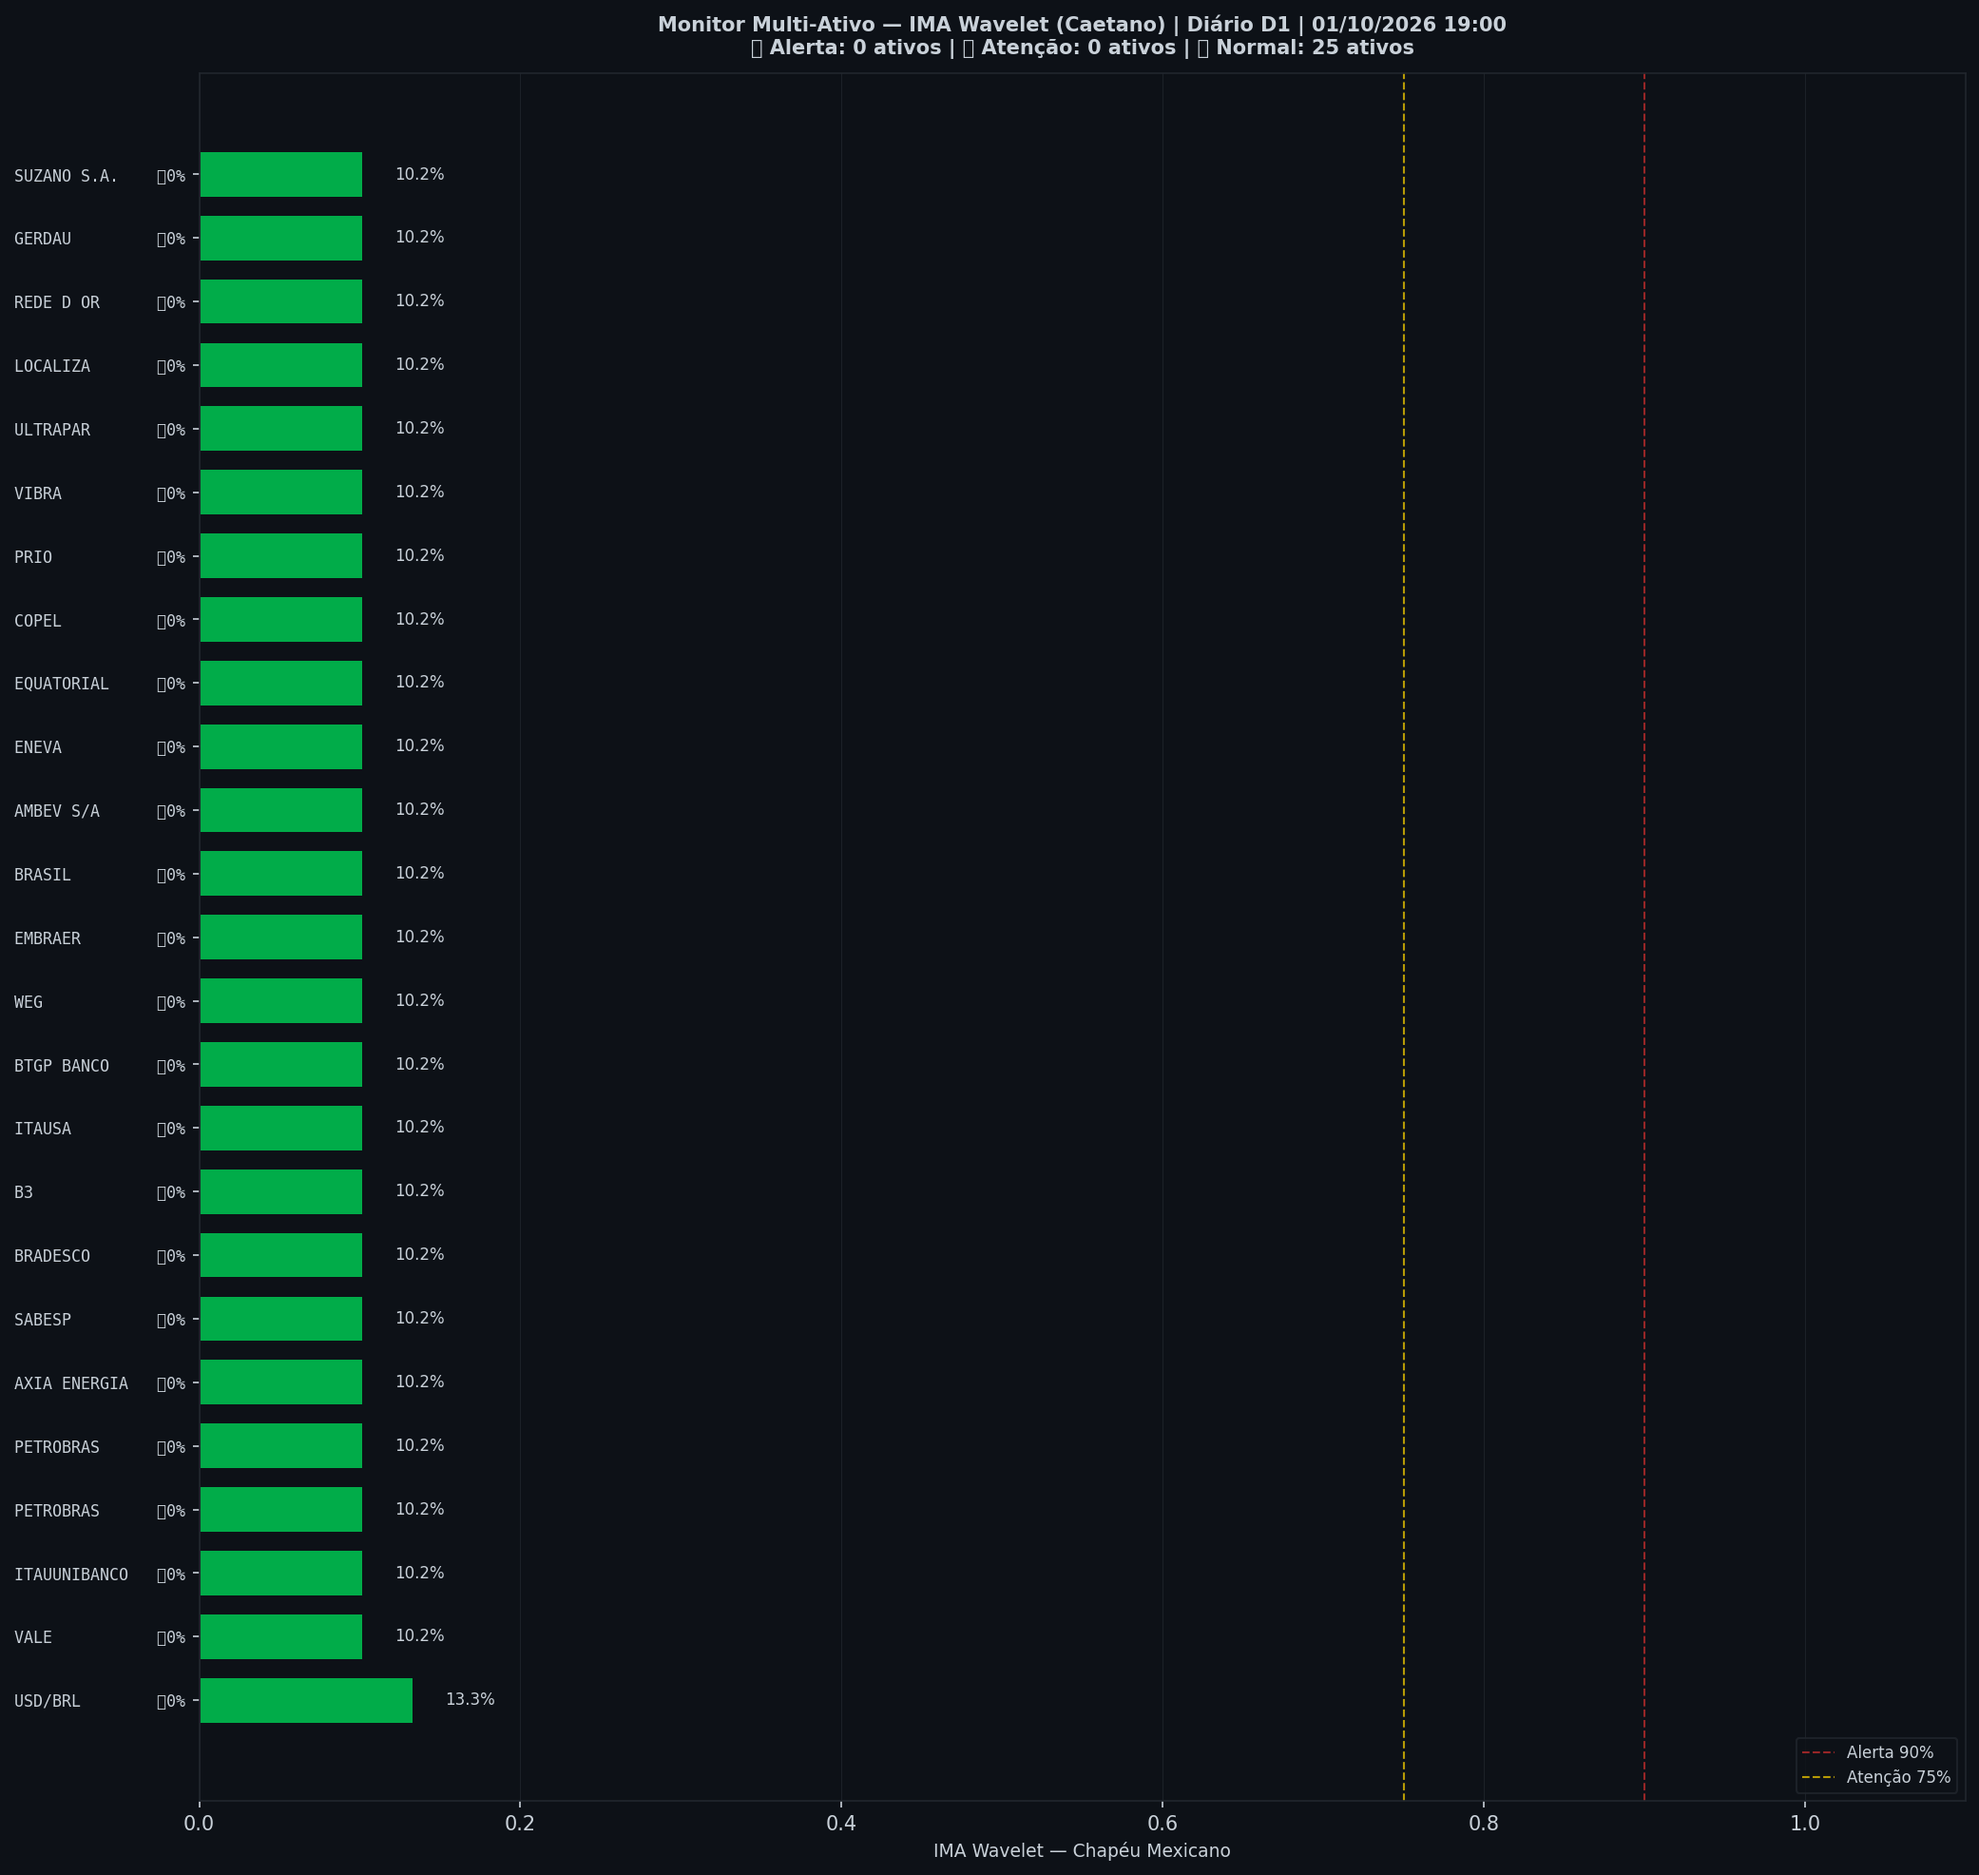
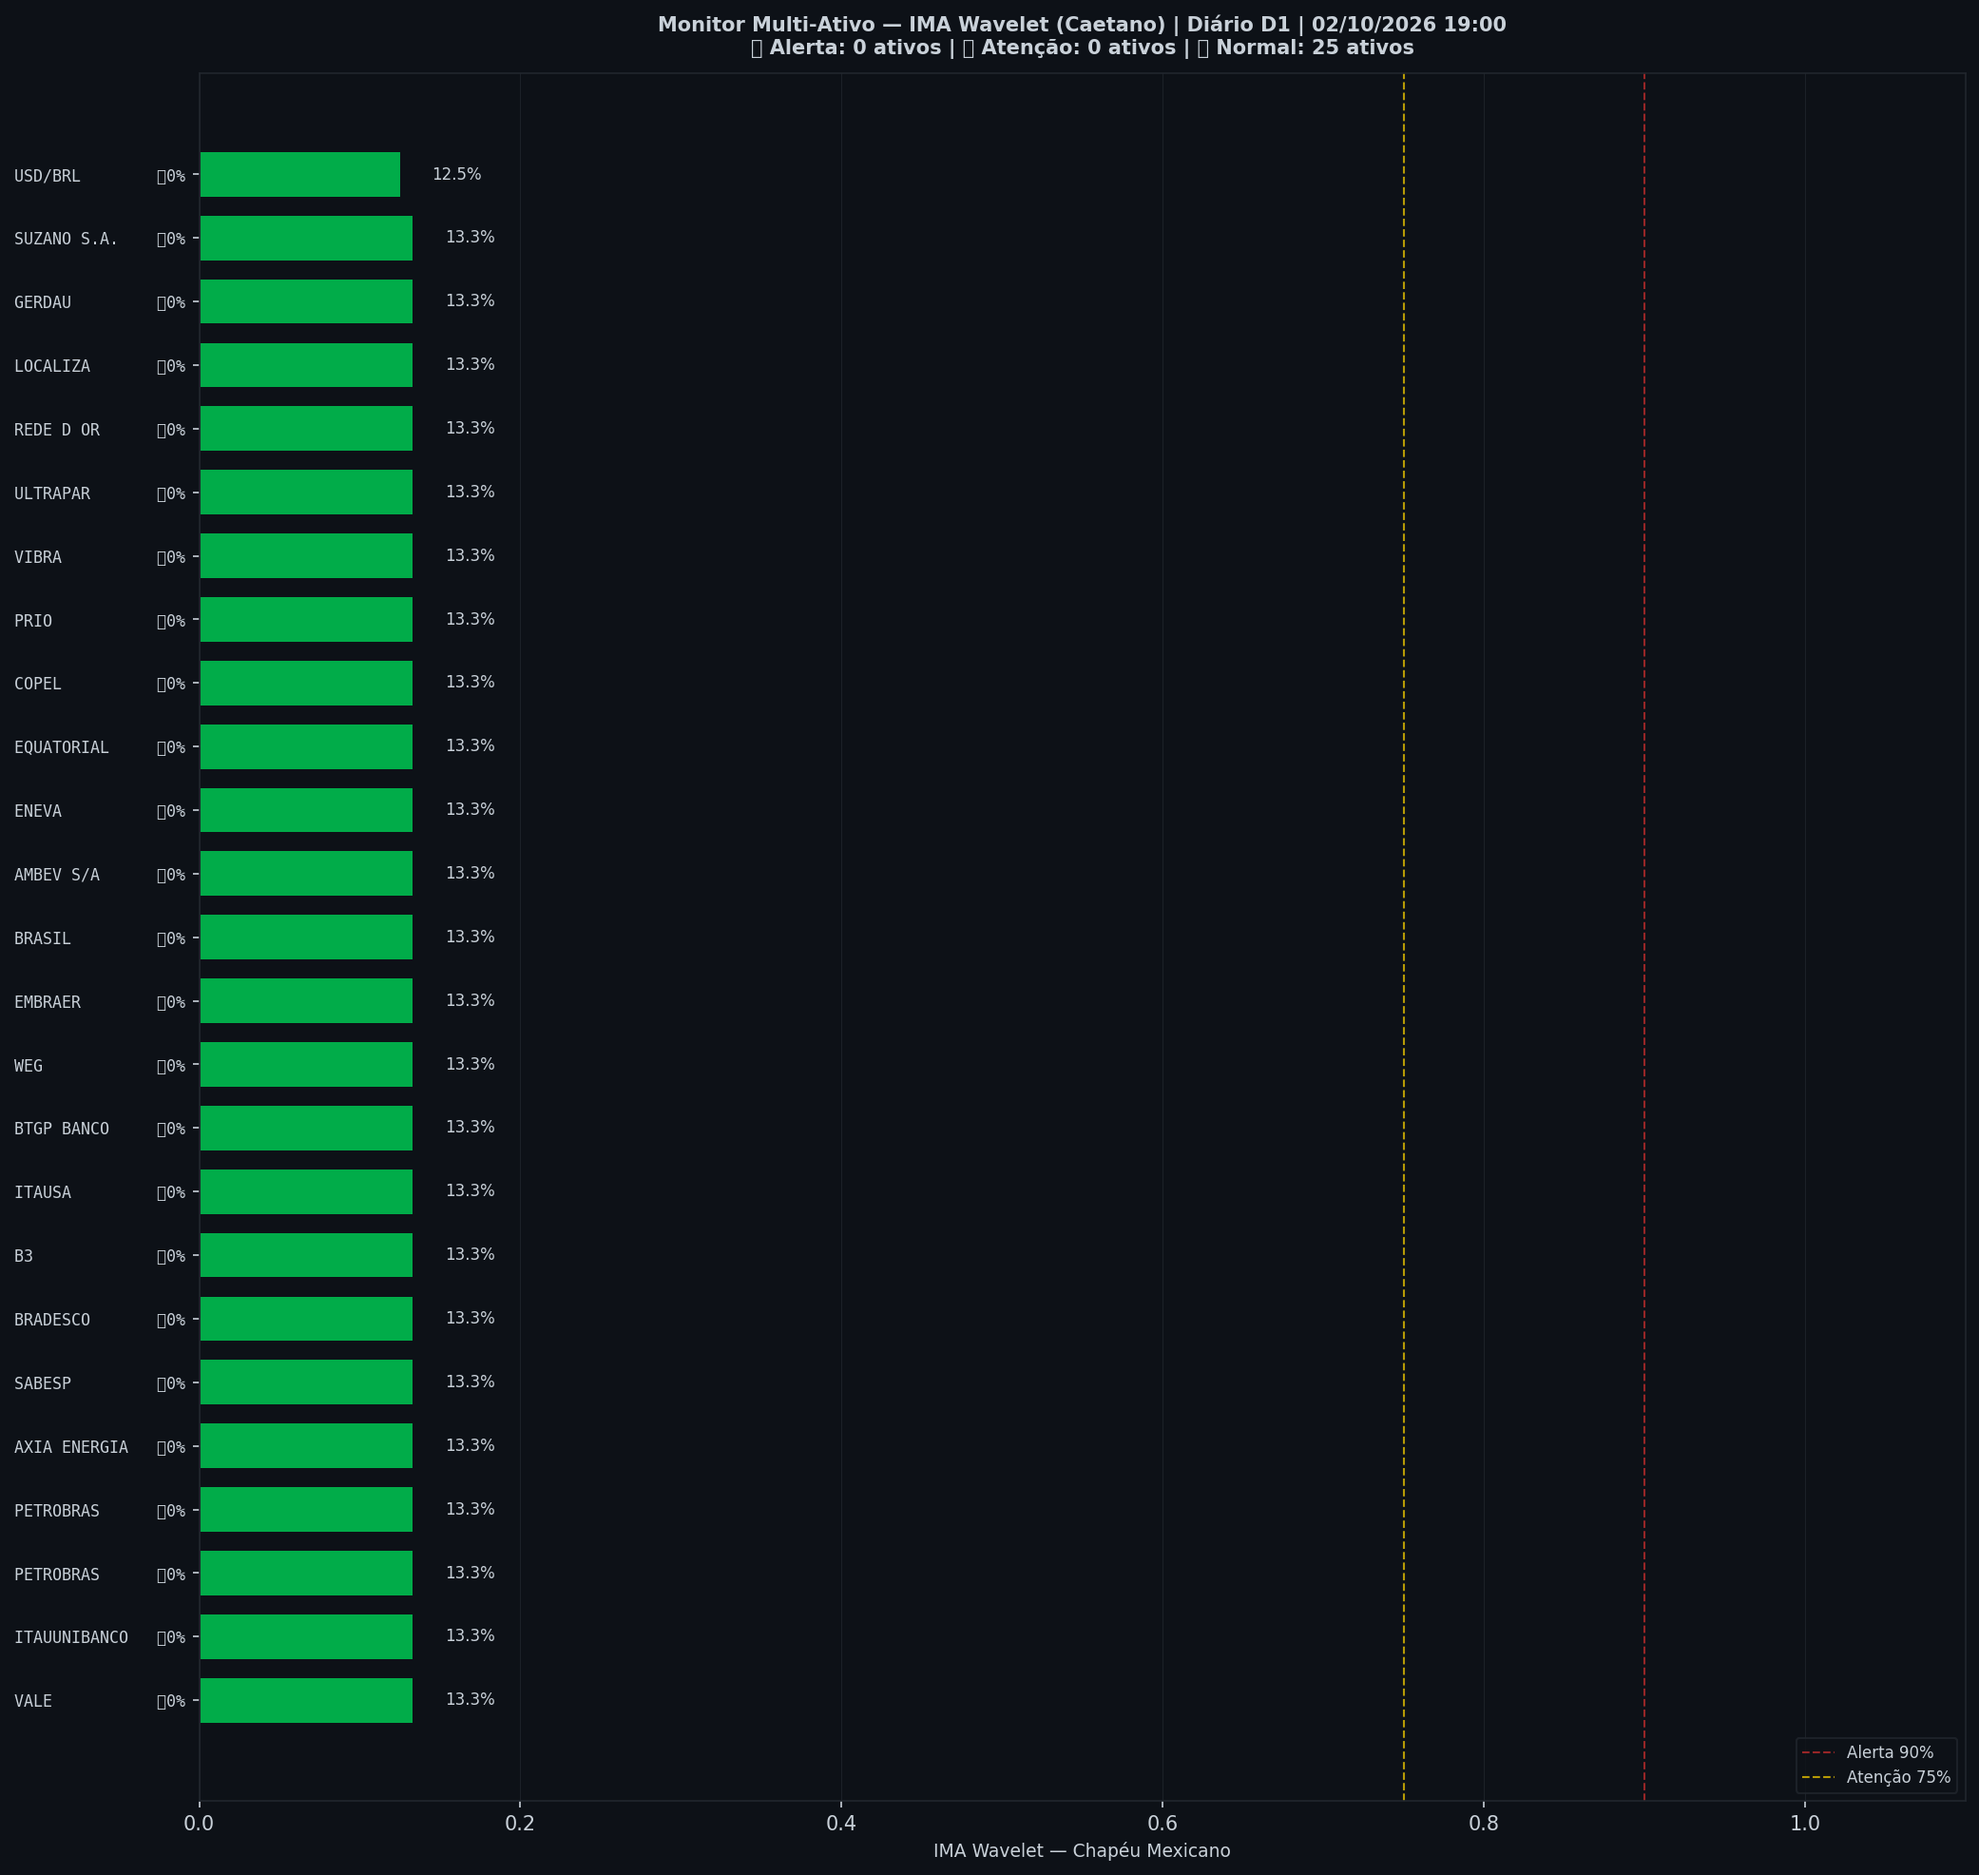
🤖 Auto: Sinal 02/10/2026 19:00

Changed region(s): [[0.1561, 0.0619, 0.2185, 0.8971], [0.0312, 0.8352, 0.0624, 0.8971], [0.0, 0.5259, 0.0312, 0.5568]]

diff --git a/content/diario/2026-10-01.md b/content/diario/2026-10-01.md
@@ -1,0 +1,103 @@
+---
+title: "🟢 Diário 01/10/2026 — VERDE"
+date: 2026-10-02
+tags: [diario]
+---
+
+> [!success] 🟢 **VERDE** — Risco 1% · ▲ +1 p.p. vs leitura anterior
+> `░░░░░░░░░░░░░░░░░░░░`
+> Mercado sem sinais relevantes de estresse.
+
+
+| Indicador | Valor |
+|---|---|
+| 🔴 ζ Crash — severidade da queda em curso | **2%** |
+| 🔵 ζ Entrada — estrutura de fundo | 5% |
+| 🫧 LPPL DS-Confidence | 0% |
+| 📊 Ibovespa | 192.115 pts |
+
+![Gráfico do sinal](../graficos/sinal_diario.png)
+
+## Últimos 30 pregões
+
+| Data | Zona | Risco | IMA Crash | Entrada | LPPL |
+|---|---|---|---|---|---|
+| 2026-10-01 21:00 | 🟢 VERDE | **1%** | 2% | 5% | 0% |
+| 2026-09-30 21:00 | 🟢 VERDE | **0%** | 0% | 9% | 0% |
+| 2026-09-29 21:00 | 🟢 VERDE | **0%** | 0% | 11% | 0% |
+| 2026-09-28 21:00 | 🟢 VERDE | **0%** | 0% | 11% | 0% |
+| 2026-09-27 21:00 | 🟢 VERDE | **0%** | 1% | 9% | 0% |
+| 2026-09-24 21:00 | 🟢 VERDE | **1%** | 2% | 5% | 0% |
+| 2026-09-23 21:00 | 🟢 VERDE | **0%** | 0% | 4% | 0% |
+| 2026-09-22 21:00 | 🟢 VERDE | **0%** | 0% | 3% | 0% |
+| 2026-09-21 21:00 | 🟢 VERDE | **0%** | 0% | 3% | 0% |
+| 2026-09-20 21:00 | 🟢 VERDE | **1%** | 2% | 4% | 0% |
+| 2026-09-17 21:00 | 🟢 VERDE | **4%** | 7% | 3% | 0% |
+| 2026-09-16 21:00 | 🟢 VERDE | **9%** | 15% | 2% | 0% |
+| 2026-09-15 21:00 | 🟢 VERDE | **11%** | 18% | 2% | 0% |
+| 2026-09-14 21:00 | 🟢 VERDE | **37%** | 62% | 0% | 0% |
+| 2026-09-13 21:00 | 🟢 VERDE | **32%** | 53% | 0% | 0% |
+| 2026-09-10 21:00 | 🟢 VERDE | **30%** | 50% | 0% | 0% |
+| 2026-09-09 21:00 | 🟢 VERDE | **27%** | 45% | 0% | 0% |
+| 2026-09-08 21:00 | 🟢 VERDE | **22%** | 37% | 0% | 0% |
+| 2026-09-07 21:00 | 🟢 VERDE | **17%** | 28% | 0% | 0% |
+| 2026-09-03 21:00 | 🟢 VERDE | **6%** | 10% | 1% | 0% |
+| 2026-09-02 21:00 | 🟢 VERDE | **3%** | 5% | 5% | 0% |
+| 2026-09-01 21:00 | 🟢 VERDE | **8%** | 14% | 2% | 0% |
+| 2026-08-31 21:00 | 🟢 VERDE | **8%** | 12% | 0% | 0% |
+| 2026-08-30 21:00 | 🟢 VERDE | **8%** | 12% | 0% | 0% |
+| 2026-08-27 21:00 | 🟢 VERDE | **6%** | 9% | 0% | 0% |
+| 2026-08-26 21:00 | 🟢 VERDE | **4%** | 6% | 1% | 0% |
+| 2026-08-25 21:00 | 🟢 VERDE | **2%** | 4% | 6% | 0% |
+| 2026-08-24 21:00 | 🟢 VERDE | **0%** | 1% | 14% | 0% |
+| 2026-08-23 21:00 | 🟢 VERDE | **0%** | 0% | 21% | 0% |
+| 2026-08-20 21:00 | 🟢 VERDE | **0%** | 0% | 25% | 0% |
+
+## Monitor Multi-Ativo
+
+**0% dos ativos em tensão** (0🔴 0🟡) — quanto mais ativos disparam juntos, mais confiável o sinal.
+
+| Zona | Ativo | Setor | IMA Crash | IMA Entrada |
+|---|---|---|---|---|
+| 🟢 | **VALE** | Mineração | 13.3% | 0.0% |
+| 🟢 | **ITAUUNIBANCO** | Financeiro | 13.3% | 0.0% |
+| 🟢 | **PETROBRAS** | Petróleo | 13.3% | 0.0% |
+| 🟢 | **PETROBRAS** | Petróleo | 13.3% | 0.0% |
+| 🟢 | **AXIA ENERGIA** | Energia | 13.3% | 0.0% |
+| 🟢 | **SABESP** | Saneamento | 13.3% | 0.0% |
+| 🟢 | **BRADESCO** | Financeiro | 13.3% | 0.0% |
+| 🟢 | **B3** | Financeiro | 13.3% | 0.0% |
+| 🟢 | **ITAUSA** | Financeiro | 13.3% | 0.0% |
+| 🟢 | **BTGP BANCO** | Financeiro | 13.3% | 0.0% |
+| 🟢 | **WEG** | Industrial | 13.3% | 0.0% |
+| 🟢 | **EMBRAER** | Outros | 13.3% | 0.0% |
+| 🟢 | **BRASIL** | Financeiro | 13.3% | 0.0% |
+| 🟢 | **AMBEV S/A** | Consumo | 13.3% | 0.0% |
+| 🟢 | **ENEVA** | Energia | 13.3% | 0.0% |
+| 🟢 | **EQUATORIAL** | Energia | 13.3% | 0.0% |
+| 🟢 | **COPEL** | Energia | 13.3% | 0.0% |
+| 🟢 | **PRIO** | Petróleo | 13.3% | 0.0% |
+| 🟢 | **VIBRA** | Energia | 13.3% | 0.0% |
+| 🟢 | **ULTRAPAR** | Outros | 13.3% | 0.0% |
+| 🟢 | **REDE D OR** | Saúde | 13.3% | 0.0% |
+| 🟢 | **LOCALIZA** | Aluguel | 13.3% | 0.0% |
+| 🟢 | **GERDAU** | Siderurgia | 13.3% | 0.0% |
+| 🟢 | **SUZANO S.A.** | Papel/Celulose | 13.3% | 0.0% |
+| 🟢 | **USD/BRL** | Câmbio | 12.5% | 0.0% |
+
+![Monitor multi-ativo](../graficos/multi_diario.png)
+
+*Página atualizada em 02/10/2026 19:00 BRT (leitura da barra de 2026-10-01 BRT).*
+
+> [!info]- Como interpretar (clique para expandir)
+> - **ζ Crash**: fração dos coeficientes wavelet acima do corte (Caetano & Yoneyama 2009). Escala absoluta: ζ=0,90 = 90% dos coeficientes anômalos — historicamente, quedas com ζ≥0,90 foram mais fundas e mais longas. **Mede a severidade do movimento em curso, não prevê o início da queda.**
+> - **ζ Entrada**: coeficientes negativos além do corte — estrutura de fundo, possível região de compra.
+> - **LPPL DS-Confidence**: fração de janelas (60–504 pregões) em que o modelo de bolha de Sornette produz um ajuste válido. 30% já é relevante; acima de 50% é forte evidência de estrutura de bolha.
+> - **Zonas com histerese**: o sinal só muda de zona ao cruzar o limiar de entrada, e só volta ao cruzar o de saída — evita flip-flop diário.
+
+
+---
+*Sinal de Crise B3 v4 · IMA Wavelet ([Caetano & Yoneyama, Physica-A 2007](https://doi.org/10.1016/j.physa.2007.03.054)) + LPPL DS-Confidence (Sornette, ETH-Zurich) · [Metodologia](metodologia) · [Histórico](historico)*
+
+> [!quote]- Aviso
+> Estudo acadêmico. Não constitui recomendação de investimento.

diff --git a/content/index.md b/content/index.md
@@ -4,23 +4,23 @@ date: 2026-10-02
 tags: [home]
 ---
 
-# 🔴 Sinal de Crise B3
+# 🟢 Sinal de Crise B3
 
 Monitoramento diário e intraday do Ibovespa — **IMA Wavelet** (Prof. Marco Antonio Leonel Caetano, ITA/INSPER) + **LPPL DS-Confidence** (Prof. Didier Sornette, ETH-Zurich).
 
-*Última atualização: 02/10/2026 17:30 BRT · ^BVSP · Intraday 15min · v4*
+*Última atualização: 02/10/2026 19:00 BRT · ^BVSP · Diário D1 · v4*
 
-> [!danger] 🔴 **VERMELHO** — Risco 93% · ▲ +11 p.p. vs leitura anterior
-> `███████████████████░`
-> ALERTA DE CRISE — padrão pré-crise detectado.
+> [!success] 🟢 **VERDE** — Risco 1% · ▲ +1 p.p. vs leitura anterior
+> `░░░░░░░░░░░░░░░░░░░░`
+> Mercado sem sinais relevantes de estresse.
 
 
 | Indicador | Valor |
 |---|---|
-| 🔴 ζ Crash — severidade da queda em curso | **93%** |
-| 🔵 ζ Entrada — estrutura de fundo | 0% |
+| 🔴 ζ Crash — severidade da queda em curso | **2%** |
+| 🔵 ζ Entrada — estrutura de fundo | 5% |
 | 🫧 LPPL DS-Confidence | 0% |
-| 📊 Ibovespa | 191.798 pts |
+| 📊 Ibovespa | 192.115 pts |
 
 **Multi-ativo:** 0% em tensão (0🔴 0🟡 de 25 ativos)
 
@@ -32,8 +32,13 @@ Monitoramento diário e intraday do Ibovespa — **IMA Wavelet** (Prof. Marco An
 
 | Data | Zona | Risco | IMA | LPPL |
 |---|---|---|---|---|
-| [02 Oct 2026](diario/2026-10-02) | 🔴 VERMELHO | **93%** | 93% | 0% |
-| [01 Oct 2026](diario/2026-10-01) | 🟢 VERDE | **23%** | 23% | 0% |
+| [01 Oct 2026](diario/2026-10-01) | 🟢 VERDE | **1%** | 2% | 0% |
+| [30 Sep 2026](diario/2026-09-30) | 🟢 VERDE | **0%** | 0% | 0% |
+| [29 Sep 2026](diario/2026-09-29) | 🟢 VERDE | **0%** | 0% | 0% |
+| [28 Sep 2026](diario/2026-09-28) | 🟢 VERDE | **0%** | 0% | 0% |
+| [27 Sep 2026](diario/2026-09-27) | 🟢 VERDE | **0%** | 1% | 0% |
+| [24 Sep 2026](diario/2026-09-24) | 🟢 VERDE | **1%** | 2% | 0% |
+| [23 Sep 2026](diario/2026-09-23) | 🟢 VERDE | **0%** | 0% | 0% |
 
 ## Navegação
 

diff --git a/content/historico.md b/content/historico.md
@@ -7,6 +7,7 @@ tags: [historico]
 
 | Data | Modo | Zona | Risco | IMA | LPPL |
 |---|---|---|---|---|---|
+| 2026-10-01 | diario | 🟢 VERDE | 1% | 2% | 0% |
 | 2026-10-02 16:45 | intraday | 🔴 VERMELHO | 93% | 93% | 0% |
 | 2026-10-02 16:30 | intraday | 🟡 AMARELO | 82% | 82% | 0% |
 | 2026-10-02 16:15 | intraday | 🟡 AMARELO | 73% | 73% | 0% |
